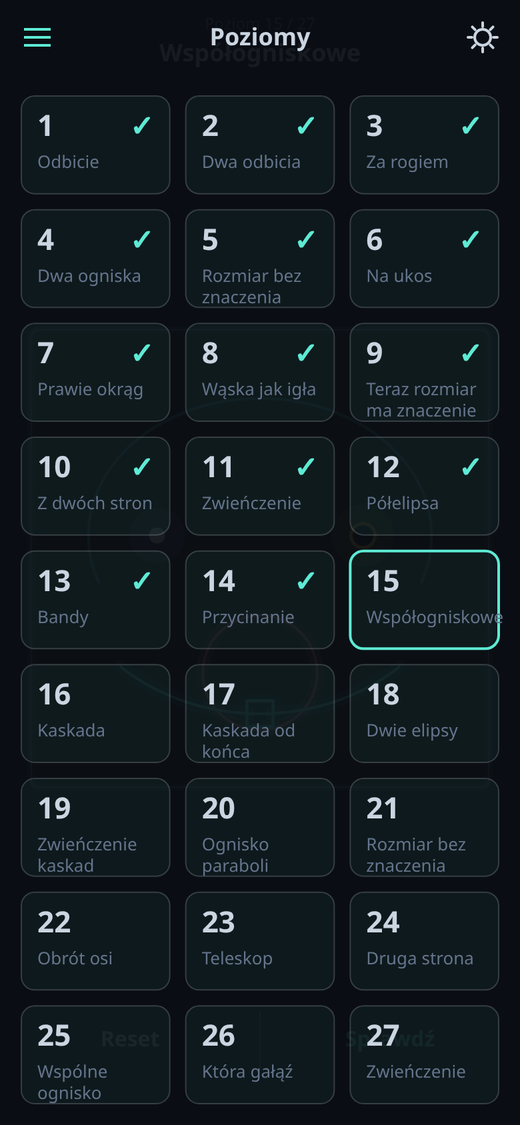
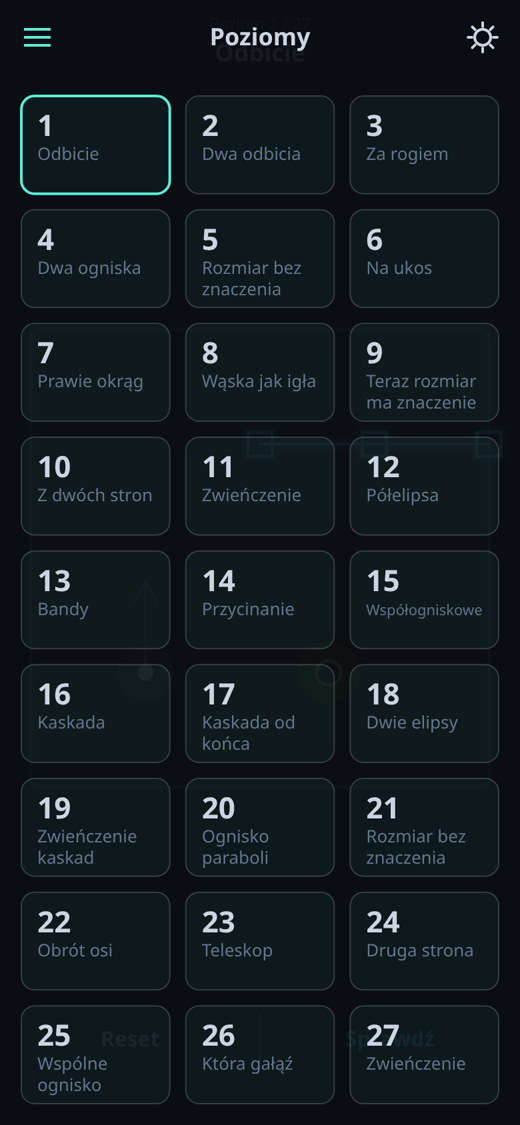
docs: nowy zrzut menu poziomow po poprawce tytulow

diff --git a/README.md b/README.md
@@ -38,7 +38,7 @@ The first level of each new mechanic opens with a one-sentence rule card. Its sm
 <p align="center">
   <img src="docs/images/screen-construct.png" width="260" alt="Level in progress: an ellipse mirror with focus and size handles, an obstacle, and two faint live-preview paths">
   <img src="docs/images/screen-final-level.png" width="260" alt="The final level solved: a parabola and a hyperbola feed each other and all eight balls reach the hole">
-  <img src="docs/images/screen-levels.png" width="260" alt="Level selection screen with 27 levels, solved ones ticked">
+  <img src="docs/images/screen-levels.png" width="260" alt="Level selection screen with all 27 levels">
 </p>
 
 ---
